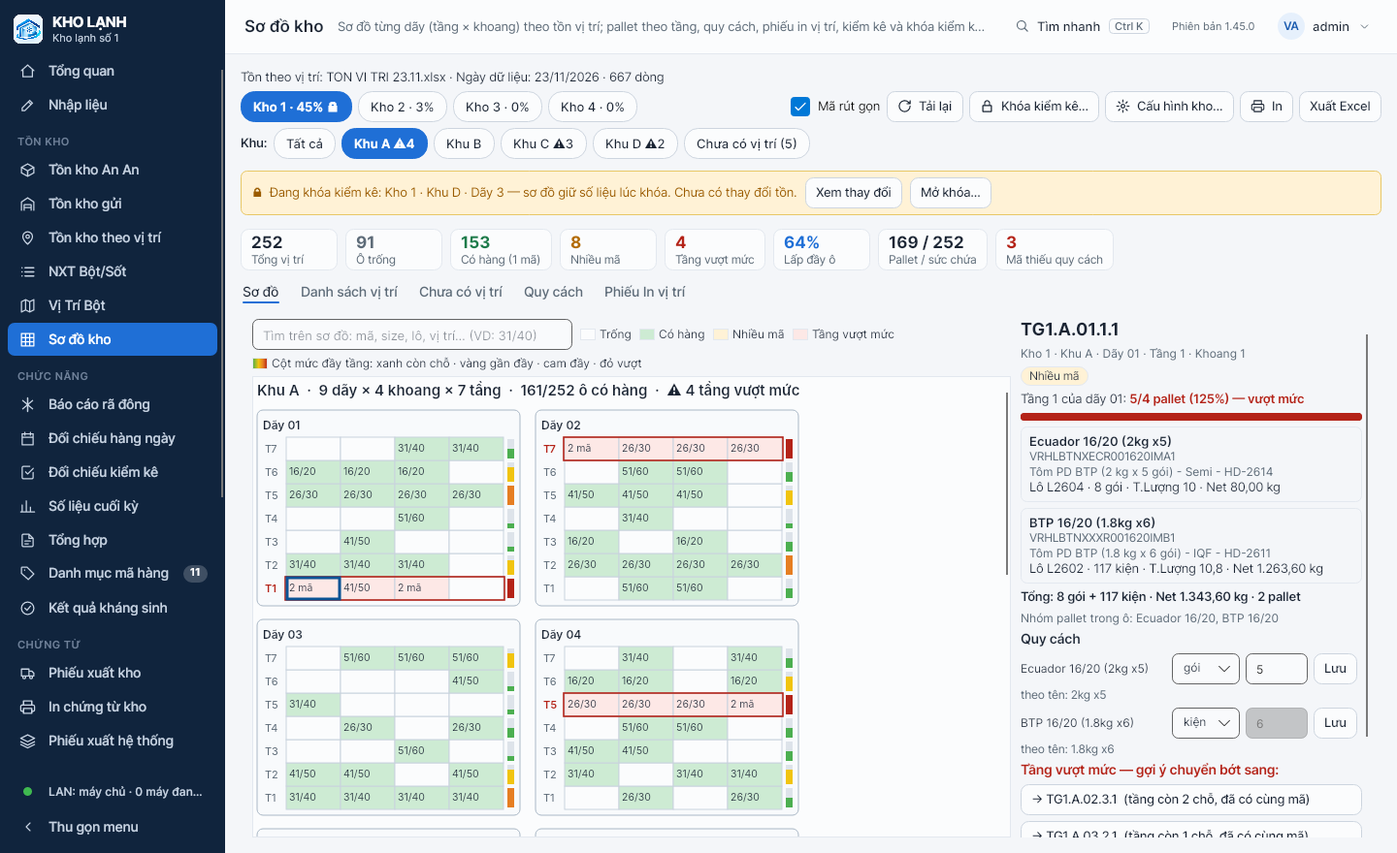
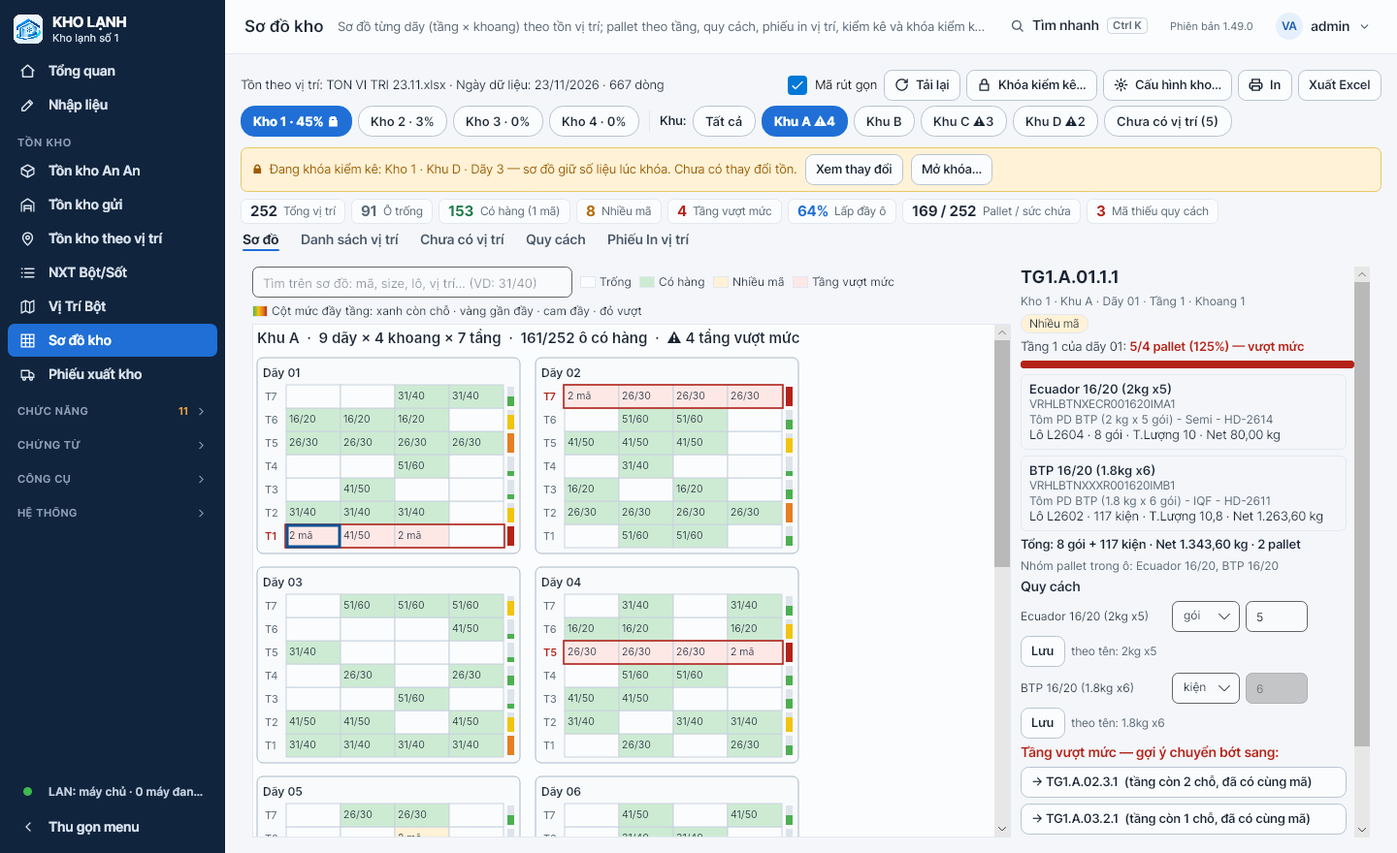
1.50.0: chọn hàng xuất bằng ô tích đầu dòng, thanh cuộn luôn to, Sơ đồ kho gọn, tab "Phiếu xuất nội địa"
- SheetGrid.CheckCol / CheckFill / SetChecked: ô tích vẽ trong cột số dòng (không tạo control mỗi dòng
  nên mượt với dữ liệu lớn); tích = điền tồn còn xuất được, ô tiêu đề = mọi dòng đang hiện sau lọc, phím cách.
  Áp cho Tồn kho An An › Xuất Hàng, Tồn kho gửi › Tạo phiếu xuất, Vị Trí Bột, Tồn kho theo vị trí.
- Thanh cuộn toàn app luôn hiện cỡ lớn (tắt AllowAutoHide).
- Sơ đồ kho: công cụ lên dòng thông tin file, Kho + Khu chung 1 dòng, thẻ số 1 dòng, Phiếu In 1 thanh công cụ.
- Phiếu xuất kho: tab "Cargo list: …" đổi tên "Phiếu xuất nội địa".
- Công cụ chụp: SHOTS_KEYS chụp riêng module, cảnh thử ô tích.

Claude-Session: https://claude.ai/code/session_01CcL5zKPX6MXqPbz7cZL3gY

diff --git a/src/KhoLanh.App/Views/SoDoView.cs b/src/KhoLanh.App/Views/SoDoView.cs
@@ -43,7 +43,7 @@ public sealed class SoDoView : UserControl, IPage
     private readonly WrapPanel _khuBar = new() { ItemSpacing = 6, LineSpacing = 6 };
     private readonly CheckBox _rut = new() { Content = "Mã rút gọn", IsChecked = true, FontSize = 12.5 };
     private readonly Border _lockBar = new() { Background = AppTheme.Brush("#FFF4CC"), BorderBrush = AppTheme.Brush("#E8C766"), BorderThickness = new Thickness(1), CornerRadius = new CornerRadius(6), Padding = new Thickness(10, 6), Margin = new Thickness(0, 6, 0, 0) };
-    private readonly WrapPanel _kpi = new() { ItemSpacing = 8, LineSpacing = 6, Margin = new Thickness(0, 8, 0, 4) };
+    private readonly WrapPanel _kpi = new() { ItemSpacing = 6, LineSpacing = 4, Margin = new Thickness(0, 2, 0, 0) };
     private readonly TabControl _tabs;
 
     // ---------- tab Sơ đồ
@@ -133,11 +133,21 @@ public sealed class SoDoView : UserControl, IPage
         if (_export) tools.Children.Add(Btn("🖨 In", async () => await PrintList(), tip: "Mở trang in A4 danh sách vị trí đang lọc (In hoặc Lưu PDF)"));
         if (_export) tools.Children.Add(Btn("Xuất Excel", async () => await ExportList(), tip: "Xuất danh sách vị trí đang lọc ra Excel"));
 
+        // 1.50: gọn phần đầu để bảng / sơ đồ có thêm chỗ — Kho + Khu chung 1 dòng (công cụ bên phải), thẻ số 1 dòng thấp
         var row1 = new DockPanel();
-        DockPanel.SetDock(tools, Dock.Right); row1.Children.Add(tools); row1.Children.Add(_khoBar);
-        var top = new StackPanel { Spacing = 6, Margin = new Thickness(0, 0, 0, 2) };
-        var infoRow = new DockPanel(); DockPanel.SetDock(_status, Dock.Right); infoRow.Children.Add(_status); infoRow.Children.Add(_info);
-        top.Children.Add(infoRow); top.Children.Add(row1); top.Children.Add(_khuBar); top.Children.Add(_lockBar); top.Children.Add(_kpi);
+        var chips = new WrapPanel { ItemSpacing = 6, LineSpacing = 6 };
+        chips.Children.Add(_khoBar);
+        chips.Children.Add(new Border { Width = 1, Height = 22, Background = Line, Margin = new Thickness(4, 0), VerticalAlignment = VerticalAlignment.Center });
+        chips.Children.Add(_khuBar);
+        row1.Children.Add(chips);
+        var top = new StackPanel { Spacing = 5, Margin = new Thickness(0, 0, 0, 0) };
+        // dòng đầu: thông tin file (trái) + công cụ (phải) — Kho + Khu có trọn 1 dòng bên dưới
+        var infoLeft = new StackPanel { Spacing = 1, VerticalAlignment = VerticalAlignment.Center };
+        infoLeft.Children.Add(_info); infoLeft.Children.Add(_status);
+        _status.IsVisible = false;
+        _status.PropertyChanged += (_, e) => { if (e.Property == TextBlock.TextProperty) _status.IsVisible = !string.IsNullOrEmpty(_status.Text); };
+        var infoRow = new DockPanel(); DockPanel.SetDock(tools, Dock.Right); infoRow.Children.Add(tools); infoRow.Children.Add(infoLeft);
+        top.Children.Add(infoRow); top.Children.Add(row1); top.Children.Add(_lockBar); top.Children.Add(_kpi);
         var root = new DockPanel();
         DockPanel.SetDock(top, Dock.Top);
         root.Children.Add(top); root.Children.Add(_tabs);
@@ -304,10 +314,11 @@ public sealed class SoDoView : UserControl, IPage
 
     private Border Kpi(string label, string value, IBrush? fg = null, string? tip = null)
     {
-        var s = new StackPanel { Spacing = 0 };
-        s.Children.Add(new TextBlock { Text = value, FontSize = 17, FontWeight = FontWeight.Bold, Foreground = fg ?? Dark });
-        s.Children.Add(new TextBlock { Text = label, FontSize = 11.5, Classes = { "muted" } });
-        var b = new Border { Background = AppTheme.Card, BorderBrush = Line, BorderThickness = new Thickness(1), CornerRadius = new CornerRadius(8), Padding = new Thickness(10, 3), MinWidth = 100, Child = s };
+        // thẻ số 1 dòng (số đậm + nhãn) — thấp hơn thẻ 2 dòng cũ để bảng có thêm chỗ
+        var s = new StackPanel { Orientation = Orientation.Horizontal, Spacing = 6 };
+        s.Children.Add(new TextBlock { Text = value, FontSize = 14.5, FontWeight = FontWeight.Bold, Foreground = fg ?? Dark, VerticalAlignment = VerticalAlignment.Center });
+        s.Children.Add(new TextBlock { Text = label, FontSize = 11.5, Classes = { "muted" }, VerticalAlignment = VerticalAlignment.Center });
+        var b = new Border { Background = AppTheme.Card, BorderBrush = Line, BorderThickness = new Thickness(1), CornerRadius = new CornerRadius(6), Padding = new Thickness(9, 3), Child = s };
         if (tip is not null) ToolTip.SetTip(b, tip);
         return b;
     }
@@ -782,13 +793,13 @@ public sealed class SoDoView : UserControl, IPage
 
     private Control BuildKk()
     {
-        var bar = new WrapPanel { ItemSpacing = 6, LineSpacing = 6, Margin = new Thickness(0, 8, 0, 4) };
+        var bar = new WrapPanel { ItemSpacing = 6, LineSpacing = 6, Margin = new Thickness(0, 6, 0, 4) };
         Combo(_kMode, new[] { "Theo sổ sách", "Phiếu trống (để ghi tay)" });
         bar.Children.Add(Label("Khu")); bar.Children.Add(_kKhu); bar.Children.Add(Label("Dãy")); bar.Children.Add(_kDay); bar.Children.Add(_kMode);
         bar.Children.Add(Btn("Tạo lại phiếu", async () => { if (await KkCanLeave()) { _k = null; await KkEnsure(); } }));
         foreach (var c in new[] { _kKhu, _kDay, _kMode })
             c.SelectionChanged += async (_, _) => { if (!_loading) await KkSelChanged(); };
-        var b2 = new WrapPanel { ItemSpacing = 6, LineSpacing = 6, Margin = new Thickness(0, 0, 0, 4) };
+        var b2 = bar;   // 1.50: chung 1 thanh (tự xuống dòng khi hẹp) thay vì 2 dòng + dòng ghi chú
         b2.Children.Add(_bMerge); b2.Children.Add(_bMove); b2.Children.Add(_bMoveAll); b2.Children.Add(_bUndo);
         b2.Children.Add(Btn("+ Thêm dòng", KkAddRow, tip: "Thêm 1 dòng cùng vị trí ngay dưới dòng đang chọn"));
         b2.Children.Add(Btn("− Xóa dòng", KkDelRows, danger: true));
@@ -796,9 +807,10 @@ public sealed class SoDoView : UserControl, IPage
         if (_export) b2.Children.Add(Btn("Xuất Excel (A4)", async () => await KkExport(), primary: true, tip: "Mỗi dãy 1 sheet, Times New Roman 15, khổ A4 đứng — mở Excel để in"));
         b2.Children.Add(Btn("Chuyển sang Nhập liệu", async () => await KkToNhapLieu(), tip: "Tạo trang Nhập liệu (mẫu Kiểm kê) cho 1 dãy, số lượng điền sẵn theo sổ để nhập số thực"));
         b2.Children.Add(Btn("Rà soát chênh lệch", async () => await KkReview(), tip: "So trang Nhập liệu kiểm kê mới nhất của dãy với sổ sách"));
-        var hint = Muted("Phiếu sửa thẳng trên bảng (chỉ trên phiếu, không đổi tồn). Dòng vàng có đề xuất chuyển (ô lẫn nhiều size) sang ô trống cùng tầng; dòng xanh là dòng đã chuyển. Xuất Excel để in.");
-        var head = new StackPanel(); head.Children.Add(bar); head.Children.Add(b2); head.Children.Add(hint); head.Children.Add(_kInfo);
-        _kInfo.Margin = new Thickness(0, 4, 0, 6);
+        const string hint = "Phiếu sửa thẳng trên bảng (chỉ trên phiếu, không đổi tồn). Dòng vàng có đề xuất chuyển (ô lẫn nhiều size) sang ô trống cùng tầng; dòng xanh là dòng đã chuyển. Xuất Excel để in.";
+        ToolTip.SetTip(_kInfo, hint);
+        var head = new StackPanel(); head.Children.Add(bar); head.Children.Add(_kInfo);
+        _kInfo.Margin = new Thickness(0, 0, 0, 4);
         var p = new DockPanel();
         DockPanel.SetDock(head, Dock.Top);
         p.Children.Add(head); p.Children.Add(Framed(_kg));

diff --git a/src/KhoLanh.App/Controls/SheetGrid.cs b/src/KhoLanh.App/Controls/SheetGrid.cs
@@ -61,7 +61,43 @@ public sealed class SheetGrid : UserControl
     internal const double FilterH = 26;
     /// <summary>Tổng chiều cao phần đầu bảng (tiêu đề + dòng tìm kiếm nếu có).</summary>
     internal double TopH => HeadH + (_filterable ? FilterH : 0);
-    internal double RowHeadW => Math.Max(44, (Math.Max(Model.RowCount + SpareRows, 1).ToString().Length) * 8 + 18);
+    internal double NumW => Math.Max(44, (Math.Max(Model.RowCount + SpareRows, 1).ToString().Length) * 8 + 18);
+    internal double RowHeadW => NumW + (HasCheck ? CheckW : 0);
+
+    // ------------------------------------------------------------------ ô chọn đầu dòng (1.50 — chọn hàng xuất thay vì gõ số)
+    internal const double CheckW = 26;
+    /// <summary>Cột số lượng gắn với ô chọn ☐ đầu dòng: tích = điền <see cref="CheckFill"/> (thường là tồn còn xuất được), bỏ tích = xóa;
+    /// ô có số &gt; 0 thì hiện đã tích. Tích ô tiêu đề = chọn / bỏ mọi dòng ĐANG HIỆN (sau lọc). Phím cách = tích các dòng đang chọn. -1 = không có.</summary>
+    public int CheckCol { get => _checkCol; set { _checkCol = value; UpdateScroll(); Redraw(); } }
+    private int _checkCol = -1;
+    /// <summary>Giá trị điền vào cột <see cref="CheckCol"/> khi tích dòng (dòng dữ liệu → chữ).</summary>
+    public Func<int, string>? CheckFill { get; set; }
+    internal bool HasCheck => _checkCol >= 0 && _checkCol < Model.ColCount && !Model.ReadOnly && !Model.Columns[_checkCol].ReadOnly;
+    internal bool IsChecked(int m)
+    {
+        if (m < 0 || m >= Model.RowCount) return false;
+        var v = Model.Get(m, _checkCol).Trim();
+        return v.Length > 0 && v != "0" && !(GridFilter.TryNumber(v, out var n) && n <= 0);
+    }
+    /// <summary>Tích / bỏ tích các dòng dữ liệu (1 lần hoàn tác).</summary>
+    public void SetChecked(IEnumerable<int> rows, bool on)
+    {
+        if (!HasCheck) return;
+        Model.SetCells(rows.Where(m => m >= 0 && m < Model.RowCount && IsChecked(m) != on)
+            .Select(m => (m, _checkCol, on ? (CheckFill?.Invoke(m) ?? "1") : "")).ToList());
+    }
+    internal void ToggleRows(IReadOnlyCollection<int> rows)
+    {
+        if (rows.Count == 0) return;
+        SetChecked(rows, !rows.All(IsChecked));
+    }
+    /// <summary>Trạng thái ô tích tiêu đề: true = mọi dòng đang hiện đã tích, null = một phần, false = chưa dòng nào.</summary>
+    internal bool? MasterState()
+    {
+        var cnt = VCount; if (cnt == 0) return false;
+        var n = 0; for (var v = 0; v < cnt; v++) if (IsChecked(ToModel(v))) n++;   // không cấp phát — gọi mỗi lần vẽ
+        return n == 0 ? false : n == cnt ? true : null;
+    }
     internal int TopRow;          // dòng đầu đang thấy
     internal double OffsetX;      // cuộn ngang (px)
     private bool _editing, _typedEdit;
@@ -354,6 +390,7 @@ public sealed class SheetGrid : UserControl
             case Key.Tab: Move((VR, Col + (shift ? -1 : 1)), false); break;
             case Key.Enter: Move((VR + (shift ? -1 : 1), Col), false); break;
             case Key.F2: BeginEdit(null); break;
+            case Key.Space when HasCheck && !ctrl: ToggleRows(SelModelRows().Where(m => m < Model.RowCount).ToList()); break;
             case Key.Delete: ClearSelection(); break;
             case Key.Back: BeginEdit(""); break;
             case Key.A when ctrl: VA = 0; AnchorCol = 0; VR = Math.Max(0, VCount - 1); Col = Model.ColCount - 1; Redraw(); SelectionChanged?.Invoke(); break;
@@ -419,6 +456,7 @@ public sealed class SheetGrid : UserControl
     internal void OnText(string text)
     {
         if (string.IsNullOrEmpty(text) || char.IsControl(text[0])) return;
+        if (text == " " && HasCheck) return;   // phím cách = tích dòng
         BeginEdit(text);
     }
 
@@ -729,8 +767,10 @@ public sealed class SheetGrid : UserControl
                 {
                     var y = top + (r - _g.TopRow) * rh;
                     if (r >= sel.R1 && r <= sel.R2) dc.FillRectangle(HeadSelBg, new Rect(0, y, rhw, rh));
-                    var ft = new FormattedText((_g.ToModel(r) + 1).ToString(), CultureInfo.CurrentCulture, FlowDirection.LeftToRight, Face, 11.5, filtered ? Accent : HeadText);
-                    dc.DrawText(ft, new Point(rhw - ft.Width - 6, y + (rh - ft.Height) / 2));
+                    var mr = _g.ToModel(r);
+                    var ft = new FormattedText((mr + 1).ToString(), CultureInfo.CurrentCulture, FlowDirection.LeftToRight, Face, 11.5, filtered ? Accent : HeadText);
+                    dc.DrawText(ft, new Point(_g.NumW - ft.Width - 6, y + (rh - ft.Height) / 2));
+                    if (_g.HasCheck && mr < m.RowCount) DrawCheck(dc, new Point(_g.NumW + 5, y + (rh - 15) / 2), _g.IsChecked(mr));
                     dc.DrawLine(HeadLine, new Point(0, y + rh - 0.5), new Point(rhw, y + rh - 0.5));
                 }
             if (_g.Filterable)
@@ -742,7 +782,28 @@ public sealed class SheetGrid : UserControl
                 else dc.DrawGeometry(null, new Pen(Muted, 1), fun);
                 dc.DrawLine(HeadLine, new Point(0, top - 0.5), new Point(rhw, top - 0.5));
             }
+            if (_g.HasCheck)
+            {   // ô tích tiêu đề = chọn / bỏ mọi dòng đang hiện
+                dc.FillRectangle(HeadBg, new Rect(_g.NumW, 0, SheetGrid.CheckW, hh - 1));
+                DrawCheck(dc, new Point(_g.NumW + 5, (hh - 15) / 2), _g.MasterState());
+            }
             dc.DrawLine(HeadLine, new Point(rhw - 0.5, 0), new Point(rhw - 0.5, b.Height));
+        }
+
+        private static readonly IPen CheckPen = new Pen(AppTheme.Brush("#5D6B78"), 1.3);
+        private static readonly IPen TickPen = new Pen(Brushes.White, 2) { LineCap = PenLineCap.Round, LineJoin = PenLineJoin.Round };
+        private static void DrawCheck(DrawingContext dc, Point at, bool? on)
+        {
+            var box = new Rect(at.X, at.Y, 15, 15);
+            if (on == false) { dc.DrawRectangle(AppTheme.Card, CheckPen, box, 3, 3); return; }
+            dc.DrawRectangle(Accent, null, box, 3, 3);
+            if (on == true)
+            {
+                var g = new StreamGeometry();
+                using (var c = g.Open()) { c.BeginFigure(new Point(at.X + 3.5, at.Y + 7.8), false); c.LineTo(new Point(at.X + 6.4, at.Y + 10.6)); c.LineTo(new Point(at.X + 11.6, at.Y + 4.6)); c.EndFigure(false); }
+                dc.DrawGeometry(null, TickPen, g);
+            }
+            else dc.DrawLine(TickPen, new Point(at.X + 4, at.Y + 7.5), new Point(at.X + 11, at.Y + 7.5));
         }
 
         private static bool LooksNumber(string s) =>
@@ -782,6 +843,11 @@ public sealed class SheetGrid : UserControl
             {   // dòng tìm kiếm: ô góc = bỏ mọi bộ lọc; ô cột = gõ chữ tìm
                 if (c < 0) _g.ClearFilters(); else _g.ShowFilterEditor(c);
                 e.Handled = true; return;
+            }
+            if (_g.HasCheck && c < 0 && p.X >= _g.NumW)
+            {
+                if (r < 0 && p.Y < SheetGrid.HeadH) { var all = _g.ShownRows; _g.SetChecked(all, _g.MasterState() != true); e.Handled = true; return; }
+                if (r >= 0) { var m = _g.ToModel(r); if (m < _g.Model.RowCount) { _g.SelectV(r, _g.Col); _g.ToggleRows(new[] { m }); } e.Handled = true; return; }
             }
             if (r < 0 && c < 0) { _g.SelectRangeV(new CellRange(0, 0, Math.Max(0, _g.VCount - 1), _g.Model.ColCount - 1)); return; }
             if (r < 0) // tiêu đề cột

diff --git a/tools/Screenshots/Program.cs b/tools/Screenshots/Program.cs
@@ -544,6 +544,8 @@ Snap(main, "16-tro-ly-he-thong");
 
 foreach (var (key, name) in new[] { ("users", "12-tai-khoan"), ("backup", "13-sao-luu"), ("lan", "15-mang-lan"), ("audit", "14-nhat-ky"), ("m3", "21-tong-hop"), ("m4", "22-ra-dong"), ("m5", "23-doi-chieu"), ("m6", "20-nhap-lieu"), ("m7", "24-vi-tri"), ("m8", "25-so-do-kho"), ("m9", "26-doi-chieu-kiem-ke"), ("m10", "27-khang-sinh"), ("m11", "28-phieu-xuat-he-thong"), ("m12", "29-in-chung-tu-kho"), ("m13", "30-phieu-xuat-kho"), ("m1", "40-ton-kho-an-an"), ("m2", "41-ton-kho-gui") })
 {
+    // SHOTS_KEYS=m8,m13 → chỉ chụp các module đó (kiểm nhanh một màn hình)
+    if (Environment.GetEnvironmentVariable("SHOTS_KEYS") is { Length: > 0 } onlyKeys && !onlyKeys.Split(',').Contains(key)) continue;
     main.Navigate(key);
     Snap(main, name);
     if (key == "lan")
@@ -767,6 +769,14 @@ foreach (var (key, name) in new[] { ("users", "12-tai-khoan"), ("backup", "13-sa
         main.KeyTextInput("2"); Pump(); main.KeyPress(Avalonia.Input.Key.Enter, Avalonia.Input.RawInputModifiers.None, Avalonia.Input.PhysicalKey.None, null); main.KeyRelease(Avalonia.Input.Key.Enter, Avalonia.Input.RawInputModifiers.None, Avalonia.Input.PhysicalKey.None, null);
         for (var i = 0; i < 8; i++) { Thread.Sleep(30); Pump(); }
         Snap(main, "40-an-an-xuat-hang-go-SL");
+        {   // 1.50: tích ô đầu dòng = chọn xuất hết tồn cuối
+            var tonCol = Enumerable.Range(0, xg.Model.ColCount).First(c => xg.Model.Columns[c].Header == "Tồn cuối");
+            xg.SetChecked(new[] { 1, 2 }, true); for (var i = 0; i < 10; i++) { Thread.Sleep(30); Pump(); }
+            Console.WriteLine($"[AN-AN] tích chọn 2 dòng: SL = {xg.Model.Get(1, qtyCol)} / {xg.Model.Get(2, qtyCol)} (tồn {xg.Model.Get(1, tonCol)} / {xg.Model.Get(2, tonCol)}) · đúng={xg.Model.Get(1, qtyCol) == xg.Model.Get(1, tonCol) && xg.IsChecked(2)}");
+            Snap(main, "40-an-an-xuat-hang-tich-chon");
+            xg.SetChecked(new[] { 1, 2 }, false); for (var i = 0; i < 10; i++) { Thread.Sleep(30); Pump(); }
+            Console.WriteLine($"[AN-AN] bỏ tích: SL dòng 2 = \"{xg.Model.Get(1, qtyCol)}\" · ô tiêu đề = {xg.MasterState()}");
+        }
         var tao = main.PageHost.GetVisualDescendants().OfType<Button>().First(b => b.IsEffectivelyVisible && KhoLanh.App.Controls.Icon.TextOf(b.Content) == "Tạo phiếu xuất");
         tao.RaiseEvent(new Avalonia.Interactivity.RoutedEventArgs(Button.ClickEvent)); for (var i = 0; i < 10; i++) { Thread.Sleep(30); Pump(); }
         Console.WriteLine($"[AN-AN] tạo phiếu xuất: {before} -> {s.AnAn.Slips.Count} phiếu");
@@ -861,6 +871,10 @@ foreach (var (key, name) in new[] { ("users", "12-tai-khoan"), ("backup", "13-sa
         main.KeyTextInput("4"); Pump(); main.KeyPress(Avalonia.Input.Key.Enter, Avalonia.Input.RawInputModifiers.None, Avalonia.Input.PhysicalKey.None, null); main.KeyRelease(Avalonia.Input.Key.Enter, Avalonia.Input.RawInputModifiers.None, Avalonia.Input.PhysicalKey.None, null);
         for (var i = 0; i < 10; i++) { Thread.Sleep(30); Pump(); }
         Snap(main, "41-gui-px-go-SL");
+        pg.SetChecked(new[] { 2 }, true); for (var i = 0; i < 10; i++) { Thread.Sleep(30); Pump(); }
+        Console.WriteLine($"[GUI] tích chọn dòng 3: SL = {pg.Model.Get(2, pg.Model.ColCount - 1)} (số kiện {pg.Model.Get(2, 6)})");
+        Snap(main, "41-gui-px-tich-chon");
+        pg.SetChecked(new[] { 2 }, false); for (var i = 0; i < 10; i++) { Thread.Sleep(30); Pump(); }
         var tao = main.PageHost.GetVisualDescendants().OfType<Button>().First(b => b.IsEffectivelyVisible && KhoLanh.App.Controls.Icon.TextOf(b.Content) == "Tạo phiếu xuất");
         tao.RaiseEvent(new Avalonia.Interactivity.RoutedEventArgs(Button.ClickEvent)); for (var i = 0; i < 25; i++) { Thread.Sleep(30); Pump(); }
         var dlgW = main.OwnedWindows.FirstOrDefault();

diff --git a/src/KhoLanh.App/Views/AnAnView.cs b/src/KhoLanh.App/Views/AnAnView.cs
@@ -870,7 +870,7 @@ public sealed class AnAnView : UserControl, IPage
         {
             bar.Children.Add(Btn("Tạo phiếu xuất", async () =>
             {
-                if (_xhSel.Count == 0) { await Ui.Message(this, "Gõ số lượng xuất vào cột “SL xuất ✎” trước."); return; }
+                if (_xhSel.Count == 0) { await Ui.Message(this, "Tích chọn dòng (ô đầu dòng) hoặc gõ số lượng vào cột “SL xuất ✎” trước."); return; }
                 var id = XhSources[Math.Max(0, _xhMod.SelectedIndex)];
                 JsonObject? s = null;
                 if (await Act(() => s = Svc.CreateSlip(id, _xhSel)) && s is not null) { _xhSel.Clear(); _status.Text = $"Đã tạo phiếu {AnAnService.SlipId(s)} — chưa trừ tồn (bấm “Trừ tồn kho” ở danh sách phiếu)."; RenderTh(); }
@@ -961,12 +961,16 @@ public sealed class AnAnView : UserControl, IPage
         _xhRows = q.Length == 0 ? all : all.Where(i => _xhSel.ContainsKey(i) || JsText.Fuzzy(string.Join(" ", cols.Select(c => D.Cell(i, c.Ci)))).Contains(q, StringComparison.Ordinal)).ToList();
         var gc = cols.Select(c => new GridColumn("c" + c.Ci, c.Label, AnAnData.IsNumericCol(c.Label) ? 85 : c.Label is "Mã hàng" ? 190 : c.Label is "Tên hàng" ? 260 : 100, AnAnData.IsNumericCol(c.Label) ? "number" : "text") { ReadOnly = true }).ToList();
         _xhQtyCol = gc.Count;
+        var tonCol = cols.FindIndex(c => c.Label == "Tồn cuối");
+        // 1.50: ô chọn đầu dòng — tích = xuất hết tồn cuối của dòng (sửa lại số được)
+        _xhg.CheckCol = _xhQtyCol;
+        _xhg.CheckFill = r => tonCol >= 0 ? _xhm.Get(r, tonCol) : "1";
         gc.Add(new GridColumn("x", _edit ? "SL xuất ✎" : "SL xuất", 85, "number") { ReadOnly = !_edit });
         _xhm.ReadOnly = !_edit;
         _xhm.Load(gc, _xhRows.Select(i => cols.Select(c => D.Cell(i, c.Ci)).Append(_xhSel.TryGetValue(i, out var v) ? Raw(v) : "")));
         _xhSnap = _xhm.Snapshot();
         _xhg.Refresh();
-        _xhInfo.Text = $"{AnAnData.LabelOf(id)}: {N(all.Count)} dòng · đang chọn {N(_xhSel.Count)} dòng, tổng SL {N(_xhSel.Values.Sum())}. Phiếu chỉ GHI NHẬN — trừ tồn khi bấm “Trừ tồn kho”.";
+        _xhInfo.Text = $"{AnAnData.LabelOf(id)}: {N(all.Count)} dòng · đang chọn {N(_xhSel.Count)} dòng, tổng SL {N(_xhSel.Values.Sum())}. Tích ô đầu dòng để chọn (lấy hết tồn) hoặc gõ SL. Phiếu chỉ GHI NHẬN — trừ tồn khi bấm “Trừ tồn kho”.";
     }
 
     private void OnXhEdited()

diff --git a/src/KhoLanh.App/Views/PhieuKhoView.cs b/src/KhoLanh.App/Views/PhieuKhoView.cs
@@ -18,7 +18,7 @@ namespace KhoLanh.App.Views;
 public sealed class PhieuKhoView : UserControl, IPage
 {
     public string Title => "Phiếu xuất kho";
-    public string Subtitle => "Phiếu xuất khẩu theo LSX (List sản xuất, email thông tin xe, xuất .xlsm) và Cargo list cho Thuận Phước · Gia công · Gửi kho (tra kháng sinh, phiếu theo thị trường, xuất Excel).";
+    public string Subtitle => "Phiếu xuất khẩu theo LSX (List sản xuất, email thông tin xe, xuất .xlsm) và Phiếu xuất nội địa (Cargo list) cho Thuận Phước · Gia công · Gửi kho (tra kháng sinh, phiếu theo thị trường, xuất Excel).";
 
     private static PhieuKhoService Svc => App.Services.PhieuKho;
     private static readonly IBrush Line_ = AppTheme.Brush("#D0D7E2");
@@ -81,7 +81,7 @@ public sealed class PhieuKhoView : UserControl, IPage
         if (_edit) leftTop.Children.Add(Btn("➕ Phiếu xuất khẩu mới", async () => await NewPhieu(), primary: true));
         if (_export) leftTop.Children.Add(Btn("📊 Thống kê xuất khẩu theo tháng…", async () => await DoThongKe()));
         leftTop.Children.Add(_search);
-        leftTop.Children.Add(new TextBlock { Text = "Phiếu xuất khẩu theo LSX. Thuận Phước · Gia công · Gửi kho làm ở tab “Cargo list”.", Classes = { "muted" }, FontSize = 11.5, TextWrapping = TextWrapping.Wrap });
+        leftTop.Children.Add(new TextBlock { Text = "Phiếu xuất khẩu theo LSX. Thuận Phước · Gia công · Gửi kho làm ở tab “Phiếu xuất nội địa”.", Classes = { "muted" }, FontSize = 11.5, TextWrapping = TextWrapping.Wrap });
         var left = new DockPanel { Width = 300 };
         DockPanel.SetDock(leftTop, Dock.Top); left.Children.Add(leftTop); left.Children.Add(Framed(_list));
 
@@ -102,7 +102,7 @@ public sealed class PhieuKhoView : UserControl, IPage
             {
                 new TabItem { Header = "Phiếu xuất khẩu (theo LSX)", Content = root },
                 new TabItem { Header = "List sản xuất", Content = _lsxView },
-                new TabItem { Header = "Cargo list: Thuận Phước · Gia công · Gửi kho", Content = new CargoView() },
+                new TabItem { Header = "Phiếu xuất nội địa", Content = new CargoView() },
                 _autoTab,
             },
             SelectedIndex = Math.Clamp(tab, 0, 3),

diff --git a/src/KhoLanh.App/Views/GuiView.cs b/src/KhoLanh.App/Views/GuiView.cs
@@ -360,8 +360,10 @@ public sealed class GuiView : UserControl, IPage
         };
         _pxm.ReadOnly = !_edit;
         _pxm.Load(cols, _pxRows.Select(r => new[] { r.MaHang, r.TenHang, r.SoLo, r.Size, r.PhieuNhap, D.DeriveDacTinh(r.TenHang, r.SoLo), N(r.SoKien), Kg(r.TrongLuong), _pxSel.TryGetValue(r, out var v) ? Raw(v) : "" }));
+        _pxg.CheckCol = _pxQtyCol;   // 1.50: tích ô đầu dòng = xuất hết (số kiện; dòng chỉ có kg thì số kg)
+        _pxg.CheckFill = r => r < _pxRows.Count ? (_pxRows[r].SoKien > 0 ? Raw(_pxRows[r].SoKien) : Raw(_pxRows[r].TrongLuong)) : "";
         _pxSnap = _pxm.Snapshot(); _pxg.Refresh();
-        _pxInfo.Text = $"{N(_pxRows.Count)} dòng còn tồn · đang chọn {N(_pxSel.Count)} dòng, tổng SL {N(_pxSel.Sum(kv => kv.Value))}. Dòng chỉ có kg (0 kiện) thì SL xuất là SỐ KG. Phiếu trừ tồn NGAY khi tạo.";
+        _pxInfo.Text = $"{N(_pxRows.Count)} dòng còn tồn · đang chọn {N(_pxSel.Count)} dòng, tổng SL {N(_pxSel.Sum(kv => kv.Value))}. Tích ô đầu dòng = lấy hết (hoặc gõ SL). Dòng chỉ có kg (0 kiện) thì SL xuất là SỐ KG. Phiếu trừ tồn NGAY khi tạo.";
     }
 
     private void OnPxEdited()
@@ -378,7 +380,7 @@ public sealed class GuiView : UserControl, IPage
 
     private async Task CreateSlip()
     {
-        if (_pxSel.Count == 0) { await Ui.Message(this, "Gõ số lượng xuất vào cột “SL xuất ✎” trước."); return; }
+        if (_pxSel.Count == 0) { await Ui.Message(this, "Tích chọn dòng (ô đầu dòng) hoặc gõ số lượng vào cột “SL xuất ✎” trước."); return; }
         if (!await Ui.Confirm(this, $"Tạo phiếu xuất mới với {_pxSel.Count} dòng hàng đã chọn?\n\nSố kiện / Trọng lượng sẽ được TRỪ ngay khỏi “Dữ Liệu”.", "Xác nhận tạo phiếu xuất", "Tạo phiếu")) return;
         var picks = _pxSel.Select(kv => (D.Rows.IndexOf(kv.Key), kv.Value)).Where(p => p.Item1 >= 0).ToList();
         GuiStore.Slip? s = null;

diff --git a/src/KhoLanh.App/Views/TongQuanView.cs b/src/KhoLanh.App/Views/TongQuanView.cs
@@ -424,7 +424,7 @@ public sealed partial class TongQuanView : UserControl, IPage
     private static readonly Quick[] Quicks =
     {
         new("anan", "📦", "Tồn kho An An", "m1", -1), new("gui", "🏬", "Tồn kho gửi", "m2", -1), new("xk", "🚢", "Phiếu xuất khẩu", "m13", 0),
-        new("lsx", "📋", "List sản xuất", "m13", 1), new("cargo", "🚚", "Cargo list (TP · GC · GK)", "m13", 2), new("vt", "📍", "Tồn kho theo vị trí", "m7", -1),
+        new("lsx", "📋", "List sản xuất", "m13", 1), new("cargo", "🚚", "Phiếu xuất nội địa", "m13", 2), new("vt", "📍", "Tồn kho theo vị trí", "m7", -1),
         new("sodo", "🗺", "Sơ đồ kho", "m8", -1), new("dc", "⚖", "Đối chiếu hàng ngày", "m5", -1), new("kk", "🧮", "Đối chiếu kiểm kê", "m9", -1),
         new("ks", "🧪", "Kết quả kháng sinh", "m10", -1), new("nl", "✏", "Nhập liệu", "m6", -1), new("c3d", "🧊", "Container 3D", "m14", -1), new("scan", "📷", "Scan tài liệu", "m15", -1),
     };

diff --git a/src/KhoLanh.App/Views/ViTriView.cs b/src/KhoLanh.App/Views/ViTriView.cs
@@ -101,7 +101,14 @@ public sealed class ViTriView : UserControl, IPage
     public ViTriView()
     {
         _edit = Svc.CanEdit; _export = Svc.CanExport;
-        _grid = new SheetGrid(_gm) { SpareRows = 0, CellBackground = StockBg };
+        _grid = new SheetGrid(_gm) { SpareRows = 0, CellBackground = StockBg, CheckCol = ColX };
+        _grid.CheckFill = r =>   // 1.50: tích ô đầu dòng = lấy hết phần chưa làm phiếu (như gõ "x")
+        {
+            if (!Ui.TryParseNumber(_gm.Get(r, ColX - 1), out var sl)) return "x";
+            var done = Ui.TryParseNumber(_gm.Get(r, ColX + 1), out var d) ? d : 0;
+            var left = sl - done;
+            return left > 0 ? left.ToString("0.###", System.Globalization.CultureInfo.InvariantCulture) : "x";
+        };
         _gm.Changed += () => { if (!_loading) OnGridChanged(); };
         _pv = new SheetGrid(_pvm) { SpareRows = 0 };
         _sg = new SheetGrid(_sm) { SpareRows = 0, CellBackground = SlipBg };

diff --git a/src/KhoLanh.App/Views/VtbView.cs b/src/KhoLanh.App/Views/VtbView.cs
@@ -36,7 +36,8 @@ public sealed class VtbView : UserControl, IPage
 
     public VtbView()
     {
-        _g = new SheetGrid(_m) { SpareRows = 0, CellBackground = (r, _) => r < _view.Count && _picks.ContainsKey(_view[r]) ? Pick : null };
+        _g = new SheetGrid(_m) { SpareRows = 0, CellBackground = (r, _) => r < _view.Count && _picks.ContainsKey(_view[r]) ? Pick : null,
+            CheckCol = 3, CheckFill = r => _m.Get(r, 2) };   // 1.50: tích ô đầu dòng = xuất hết SL
         _m.Changed += OnEdit;
         var deb = new DispatcherTimer { Interval = TimeSpan.FromMilliseconds(200) }; deb.Tick += (_, _) => { deb.Stop(); Paint(); };
         _q.TextChanged += (_, _) => { deb.Stop(); deb.Start(); };

diff --git a/CLAUDE.md b/CLAUDE.md
@@ -41,6 +41,7 @@ App quản lý kho lạnh **viết lại bằng C#** (.NET 8, Avalonia, SQLite) 
 | 1.39 | Tự tạo List / phiếu theo Lịch xuất (`PNX_AutoLog` dùng chung app cũ) | `LichXuat/LichXuatAuto.cs`, `PhieuKho/PhieuKhoAuto.cs` |
 | 1.40 | Danh mục mã hàng (quyền `m3dm`) | `DanhMuc/` |
 | 1.41 | Kiểm kê nhanh (tab đầu Đối chiếu kiểm kê) | `KiemKe/KkNhanh.cs`, `Views/KiemKeView.Nhanh.cs` |
+| 1.50 | Chọn hàng xuất bằng ô tích đầu dòng (An An › Xuất Hàng, Gửi › Tạo phiếu xuất, Vị Trí Bột, Tồn theo vị trí; tích = lấy hết tồn, ô tiêu đề = mọi dòng đang hiện, phím cách) · thanh cuộn luôn to · Sơ đồ kho gọn phần đầu · tab "Phiếu xuất nội địa" | `Controls/SheetGrid.cs` (`CheckCol`, `CheckFill`, `SetChecked`), `Styles.axaml`, `SoDoView.cs` |
 | 1.49 | Lọc ở mọi bảng: dòng tìm kiếm riêng từng cột + nút ▾ danh sách lọc phân tầng (Năm › Tháng › Ngày cho cột ngày, chỉ giá trị còn lại sau cột khác) · khung bảng / đường kẻ / tiêu đề cột đậm hơn · tab Báo Cáo An An: Tổng Tồn to hơn, Đối soát gọn, HLSO rộng hơn | `Core/Grid/GridFilter.cs`, `Controls/SheetGrid.cs` (`VR`/`VA` = dòng đang hiện, `ToModel`/`ToVisual`, `Filterable`), `Controls/FilterMenu.cs` |
 | 1.48 | Nút / tab / menu nổi bật hơn ở mọi module: chữ nút SemiBold 13.5 (nút chính Bold), tab SemiBold (tab đang chọn Bold), mục thanh bên SemiBold, viền nút `BorderStrong` #B9C3D0, chữ menu sáng hơn (NavFg #DCE5F0, NavMuted #8FA0B6), biểu tượng nét 2.1 | `Styles.axaml`, `AppTheme.cs`, `Controls/Icon.cs` |
 | 1.47 | Menu xếp gọn: nhóm Chức năng / Chứng từ / Công cụ / Hệ thống tự thu lại, chỉ mở nhóm chứa màn hình đang dùng (bấm tên nhóm để mở / đóng, nhóm đang thu hiện tổng số việc cần xử lý); Phiếu xuất kho chuyển vào cuối nhóm Tồn kho | `MainWindow.axaml.cs` (`Accordion`, `ApplyAccordion`), `Styles.axaml` (Button.sidegrphead) |
@@ -68,6 +69,7 @@ App quản lý kho lạnh **viết lại bằng C#** (.NET 8, Avalonia, SQLite) 
 
 ## Nhật ký tiến độ
 (Ghi theo mẫu: ngày · việc · bản · đã làm · còn thiếu / lưu ý · file chính.)
+- 24/11/2026 · Chọn hàng xuất + thanh cuộn + Sơ đồ kho gọn · 1.50.0 · người dùng: trang tạo phiếu xuất phải gõ SL → muốn chọn (mẫu bảng có ô tích + SL cần xuất, ưu tiên hiệu năng). Chọn giữ lưới tự vẽ (chỉ vẽ phần đang thấy, không tạo control mỗi dòng) + ô tích vẽ trong cột số dòng: `SheetGrid.CheckCol` = cột SL, tích → điền `CheckFill` (tồn còn xuất được), bỏ tích → xóa, mọi thay đổi qua `Model.SetCells` (1 lần hoàn tác) nên luồng `Model.Changed` cũ của View giữ nguyên. Thanh cuộn: `AllowAutoHide=False` toàn app (Styles.axaml). Sơ đồ kho: công cụ lên dòng thông tin file, Kho + Khu 1 dòng, thẻ số 1 dòng, Phiếu In: 1 thanh công cụ, ghi chú thành tooltip. Tab Cargo list → "Phiếu xuất nội địa". Công cụ chụp: `SHOTS_KEYS=m8,m13` chụp riêng module; ảnh `40-an-an-xuat-hang-tich-chon`, `41-gui-px-tich-chon`.
 - 24/11/2026 · Lọc mọi bảng + bảng rõ hơn · 1.49.0 (gộp chung PR với 1.48.0) · người dùng: "thu nhỏ bảng đối soát, tăng kích thước bảng tổng tồn, mở rộng bảng Tổng hợp HLSO, khung viền bảng nổi bật, tiêu đề cột tô đậm" + "các bảng số liệu tạo thêm cột lọc kiểu phân tầng và dòng tìm kiếm riêng cho từng cột, áp dụng toàn bộ bảng". Lưới: viền ngoài / kẻ tiêu đề #B9C3D0, kẻ ô #DDE3EA, nền tiêu đề #EDF1F6, chữ tiêu đề Bold 13 #1A2433 (đã thêm màu Tối). Lọc làm trong `SheetGrid` nên phủ mọi bảng: chọn lưu theo dòng đang hiện (`VR`/`VA`), API công khai (`Row`, `Selection`, `Select`, `Display`, `CellBackground`) vẫn là chỉ số dòng dữ liệu → các View không phải sửa. Nạp dữ liệu mới (`GridModel.Loads`) hoặc đổi số dòng thì lọc lại, giữ bộ lọc theo khóa cột; sửa ô thì giữ dòng đang hiện như Excel. Khi lọc không có dòng trống dự phòng. Bảng nhỏ đặt `Filterable = false` (chiều cao tính bằng `SheetGrid.HeadH`; bảng có lọc cao thêm `FilterH` 26). Ảnh `45-loc-theo-cot`, `45b-loc-danh-sach-phan-tang` (cảnh `FilterScene`, chạy cùng `SHOTS_ONLY=dm`). Test `GridFilterTests`.
 - 24/11/2026 · Nút nổi bật · 1.48.0 · người dùng: "các nút menu và các nút nạp ở tất cả module làm cho nổi bật hơn, chữ đậm hơn" → đổi ở bộ kiểu dùng chung (Styles.axaml) nên áp cho mọi module.
 - 24/11/2026 · Menu xếp gọn · 1.47.0 · `Accordion` (4 nhóm), `_openGroup` đặt theo màn hình đang mở trong `Show` (màn hình ngoài 4 nhóm → thu hết), thanh bên thu gọn (chỉ biểu tượng) thì hiện mọi mục; Phiếu xuất kho (m13) chuyển sang nhóm Tồn kho cả ở menu lẫn `Perm.Items` (nhóm "Tồn kho gốc").

diff --git a/README.md b/README.md
@@ -45,6 +45,7 @@ App đang được dựng lại theo từng module (từ bản 1.7.0 đã gỡ c
 | Đồng bộ điện thoại | Hệ thống › **Đồng bộ điện thoại** (quyền "Đồng bộ điện thoại"): dùng đúng Web App (Apps Script) của app điện thoại hiện có — **đẩy tồn** Tồn kho An An, Tồn theo vị trí, Vị Trí Bột, Tồn kho gửi, NXT Bột/Sốt, Tổng hợp (mã hóa, danh sách mã, ánh xạ), Lịch xuất, Container 3D + phiếu xuất tạo trên PC (điện thoại xem); **nhận phiếu** điện thoại tạo về đúng module (trừ tồn, chống trùng, đánh dấu "Đã xử lý"); chọn bảng, trạng thái từng bảng, tự đồng bộ theo chu kỳ. Giao thức cho bản mobile: [docs/DONG-BO-DIEN-THOAI.md](docs/DONG-BO-DIEN-THOAI.md). |
 | Giao diện | Menu tài khoản › **Giao diện & cỡ chữ…**: 2 bộ màu **Sáng dịu** (nền trắng ngà / xám rất nhạt, không trắng tinh) và **Tối** (xám đen), thu phóng toàn màn hình 90–130 % (phím tắt Ctrl + / Ctrl − / Ctrl 0); xem trước ngay, lưu riêng theo tài khoản trên máy. Màu của mọi màn hình đi qua bảng màu chung `AppTheme` (bộ Tối tự đổi từ màu bộ Sáng, giữ sắc màu); ảnh / phiếu in xuất ra file giữ màu gốc. Hộp thoại cũng phóng theo cỡ chữ. |
 | Lọc bảng (mọi bảng) | Mọi bảng số liệu (lưới kiểu Excel) có **dòng tìm kiếm riêng từng cột** ngay dưới tiêu đề (bấm vào để gõ; không phân biệt hoa thường / dấu, nhiều từ đều phải có; cột số gõ được `>100`, `<=0`, `=300`, `<>0`) và nút **▾ lọc phân tầng** ở tiêu đề (hoặc Alt+↓): danh sách giá trị kèm số dòng, chỉ còn giá trị qua được bộ lọc các cột khác, cột ngày chia Năm › Tháng › Ngày, có (Trống), ô tìm trong danh sách, Chọn tất cả. Cột đang lọc tô xanh, số dòng gốc hiện xanh; bấm phễu ở góc trái hoặc chuột phải › Bỏ mọi bộ lọc. Chép / dán / xóa / điền xuống chỉ tác động dòng đang hiện. Bảng tóm tắt vài dòng (Tổng Tồn, Đối soát) không có dòng lọc. |
+| Chọn hàng xuất | Các trang tạo phiếu xuất (Tồn kho An An › Xuất Hàng, Tồn kho gửi › Tạo phiếu xuất, Vị Trí Bột, Tồn kho theo vị trí) có **ô tích ☐ đầu dòng**: tích = chọn xuất hết tồn còn lại của dòng (sửa lại SL được), bỏ tích = bỏ chọn; ô tích tiêu đề = chọn / bỏ mọi dòng đang hiện (dùng cùng dòng lọc từng cột); phím cách tích các dòng đang chọn. Vẫn gõ / dán SL như cũ được. Thanh cuộn toàn app luôn hiện cỡ lớn. |
 | An toàn | Tự sao lưu mỗi ngày (giữ 30 bản), sao lưu ra file, khôi phục, nhật ký thao tác. |
 | Trợ lý hệ thống | Viết bằng C#, theo "Trợ lý hệ thống" của app cũ, **chỉ Quản trị**, chỉ đọc (Hệ thống › Trợ lý hệ thống). Quét nhanh / Quét sâu: lỗi phần mềm (đọc `logs/loi.log`, kể cả lỗi chưa bắt), sức khỏe CSDL (integrity_check, dung lượng, nhật ký, trang trống, xung đột LAN), ghi phiếu (trùng số phiếu, dòng mồ côi, phiếu rỗng, SL sai), số liệu nghiệp vụ (tồn âm sổ kho, xuất trước nhập, ngày vô lý, phiếu lưu 2 lần, SL gấp ≥ 10 lần thường lệ), dòng trùng khóa ở mọi bảng, mã hàng 21 ký tự + tên hàng so với Danh sách mã hàng (thiếu / ghép thêm chữ, lỗi font, nhiều tên), **kiểm tra chéo** (tồn âm ở An An / Vị trí / Kho gửi; Tồn An An ⇄ Tồn theo vị trí cùng ngày: mã chỉ có một bên, tổng lệch), sao lưu (thử mở bản mới nhất khi Quét sâu), đồng bộ LAN / Drive, file tạm dở dang. **Việc cần chú ý hôm nay**: lịch xuất khẩu hôm nay / mai thiếu List · Phiếu xuất kho · Số cont, phiếu vị trí chưa chọn loại, mất máy chủ / sổ chờ / xung đột LAN, chưa sao lưu hôm nay, bảng tồn lâu chưa nạp, lỗi phần mềm hôm nay. Hàng đợi đề xuất có trạng thái (Mới → Đã gửi Claude → Chờ kiểm tra → Đã đóng / Tái phát, Bỏ qua, Lỗi từ nguồn), sao chép báo cáo cho Claude (ẩn tên / email), thêm mã chuẩn còn thiếu vào Danh sách mã hàng. Tự quét nhanh 90 giây sau khi Quản trị đăng nhập rồi mỗi 6 giờ; có cảnh báo nặng thì hiện nút ⚠ trên thanh menu. Trạng thái lưu ở `tro-ly-state.json` trong thư mục dữ liệu. |
 
